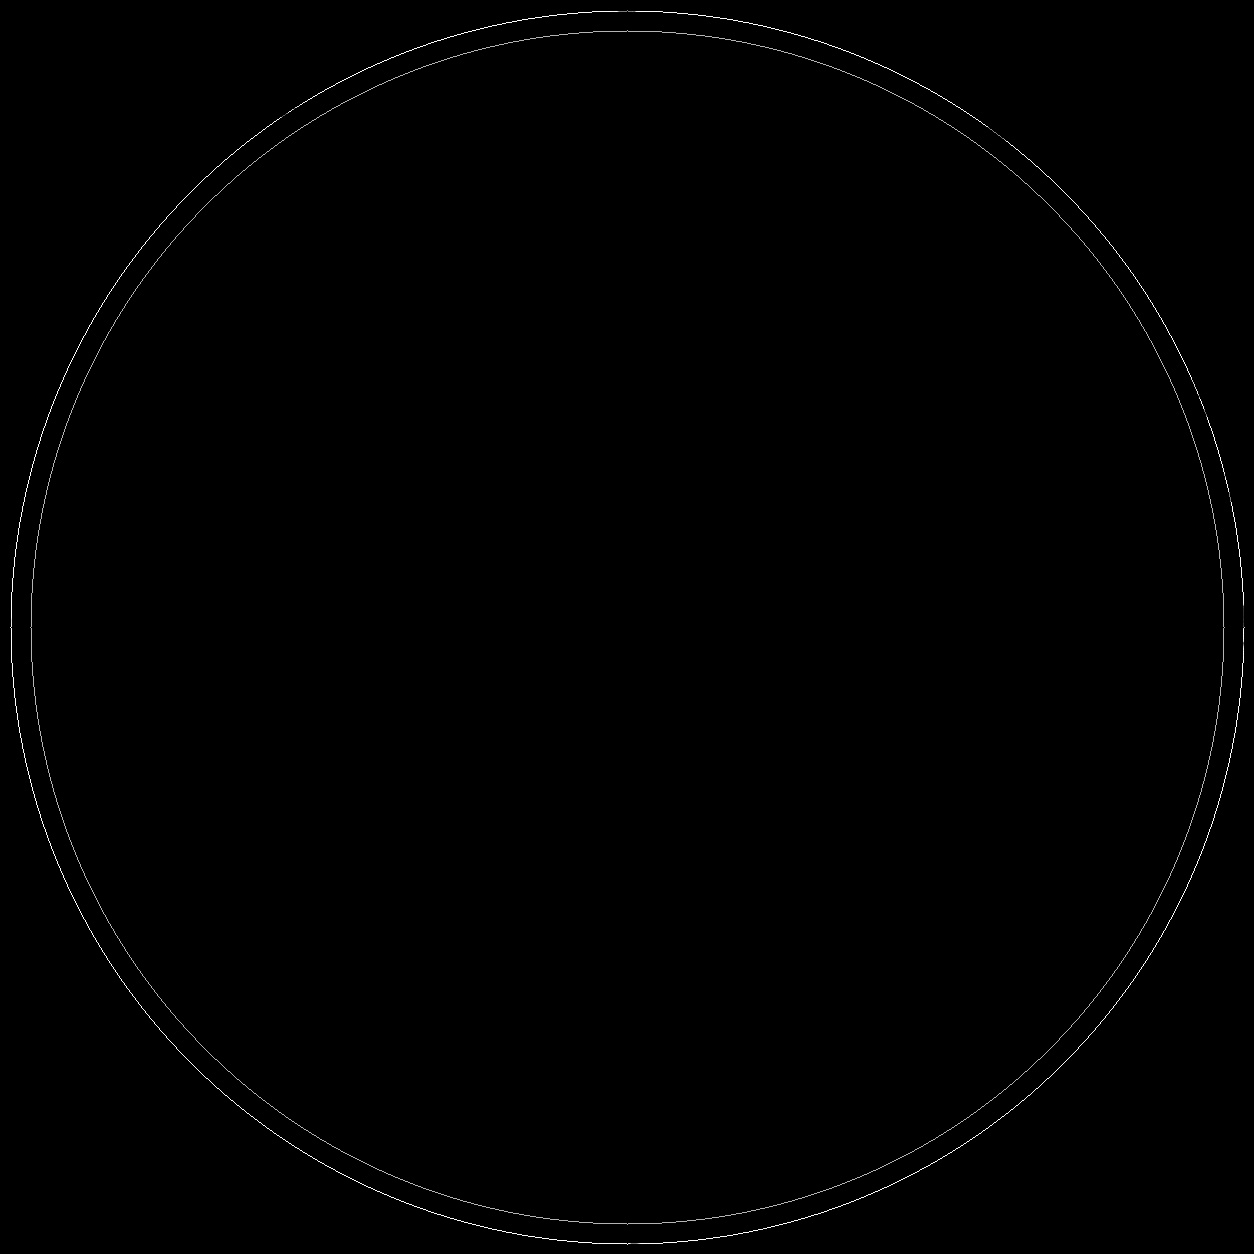
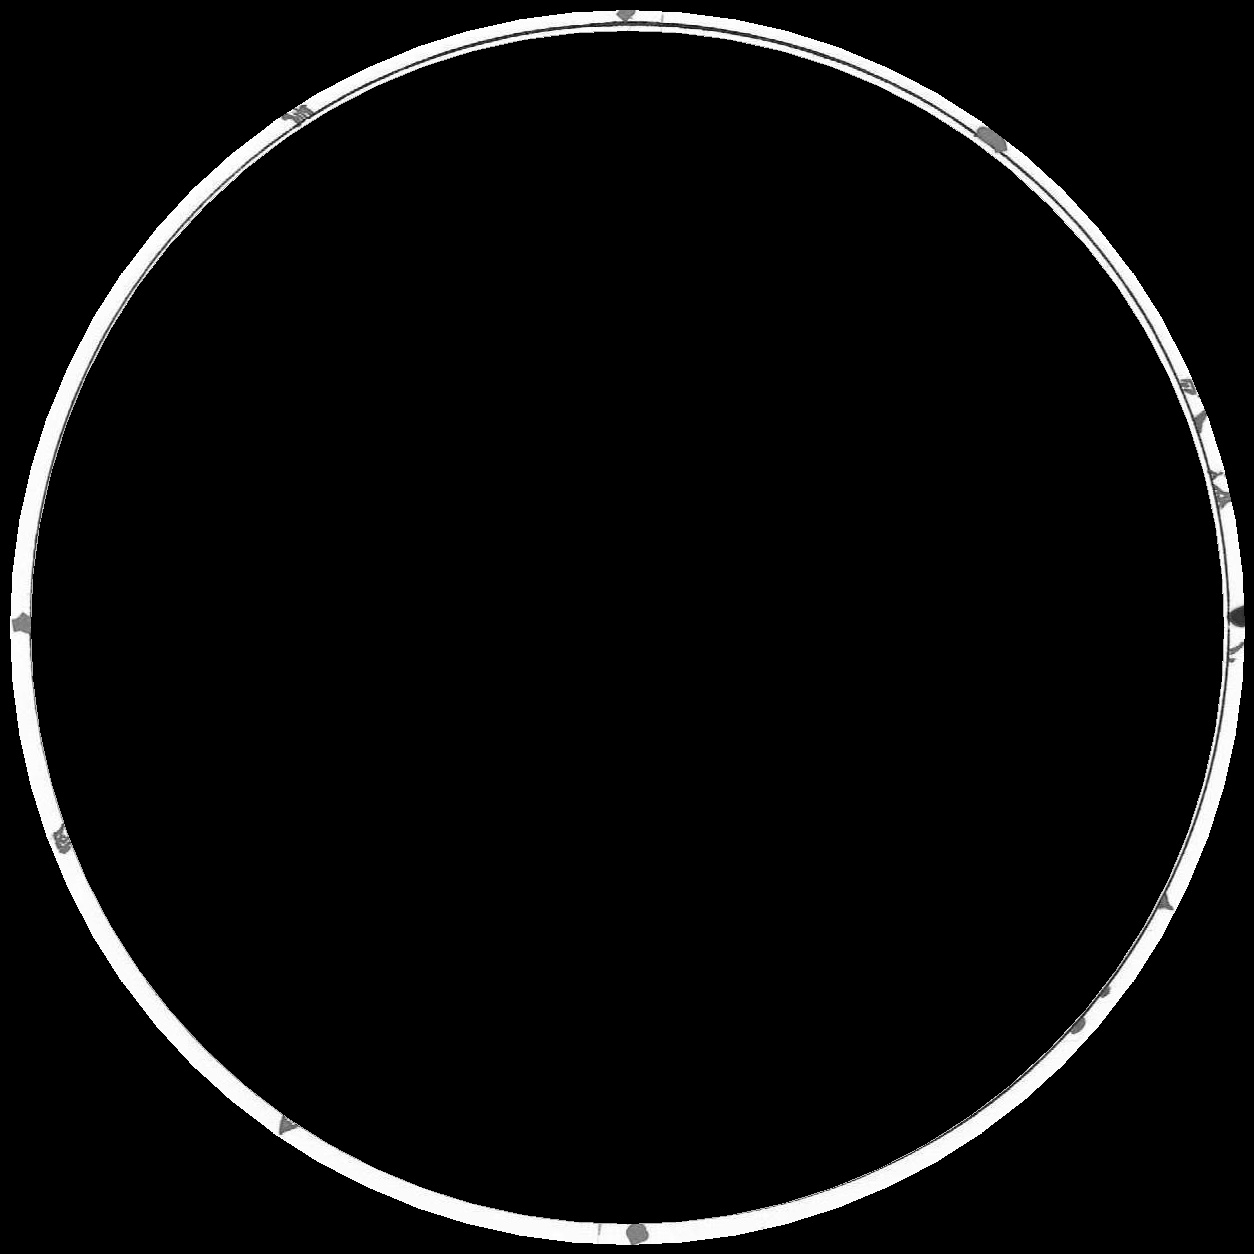
MARGIN CIRCLE
Instead of taking two circles, one outside and one inside the first detected one, we're taking into account one with a wider line. This way we will detect groups inside the circumference we're taking here.

diff --git a/main.py b/main.py
@@ -141,12 +141,12 @@ def crop_image(img, center_x, center_y, r):
     return crop_img, new_center_x, new_center_y, r
 
 
-def get_exterior_circle(img, center_x, center_y, r):
+def get_exterior_circle(img, center_x, center_y, r, width = 1):
     exterior_r = r + 10  # Exterior circle, to detect meditions /this should be adjusted later.
                          # This is NOT the circle being drawn: this is only used to detect meditions.
     output = cv2.cvtColor(img, cv2.COLOR_BGR2HSV)  # type: mat
 
-    cv2.circle(output, (center_x, center_y), exterior_r, (90, 127, 127), 1)
+    cv2.circle(output, (center_x, center_y), exterior_r, (90, 127, 127), width)
 
     blue = np.array([90, 127, 127])
     blue2 = np.array([91, 127, 127])
@@ -162,13 +162,8 @@ def get_error_margin_circle(img, center_x, center_y, r):
     # We're going for 10 pixels outside and inside the detected circle.
     # It's needed to add a _inside_ circle because sometimes there are some difference between the
     #     detected circle and the "actual" one, this way we try not to lose any meditions.
-    first_radium = r+10
-    second_radium = r-10
 
-    first_circle = get_exterior_circle(img, center_x, center_y, first_radium)
-    second_circle = get_exterior_circle(img, center_x, center_y, second_radium)
-
-    output_image = first_circle + second_circle
+    output_image = get_exterior_circle(img, center_x, center_y, r, 20)
 
     return output_image
 
@@ -207,7 +202,7 @@ def identify_groups(img):
 
     contours, hierarchy = cv2.findContours(closed_image, cv2.RETR_LIST, cv2.CHAIN_APPROX_SIMPLE)
     for cnt in contours:
-        if 5 < cv2.contourArea(cnt): # So we discard rectangles with less than five pixels of area. This reduces noise.
+        if 5 < cv2.contourArea(cnt):  # So we discard rectangles with less than five pixels of area. This reduces noise.
             rect = cv2.minAreaRect(cnt)
             box = cv2.boxPoints(rect)
             box = np.int0(box)
